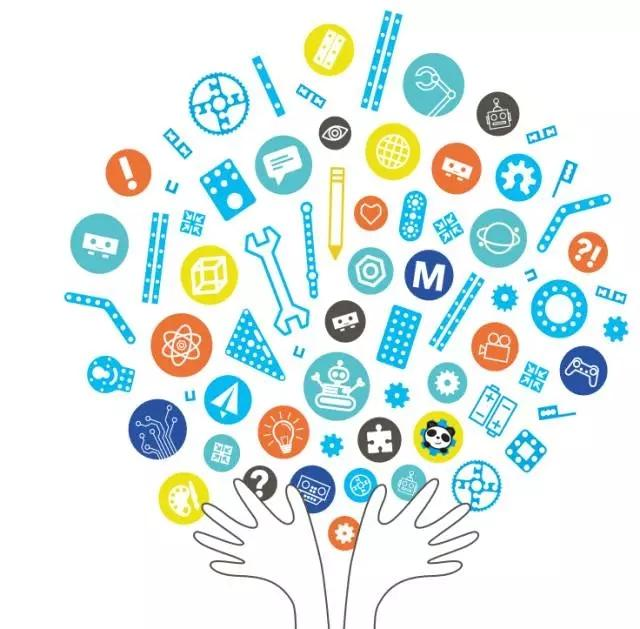
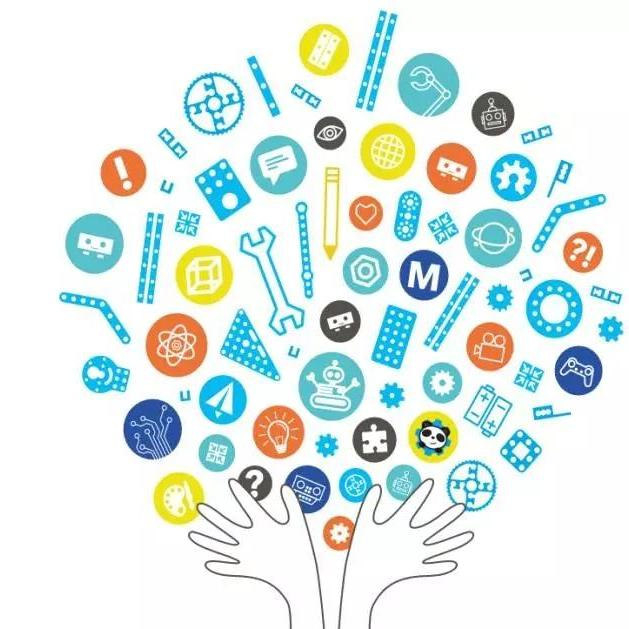
add photos

diff --git a/tool.py b/tool.py
@@ -1,0 +1,181 @@
+#coding: utf-8
+from PIL import Image
+import os
+import sys
+import json
+from datetime import datetime
+from ImageProcess import Graphics
+
+# 定义压缩比，数值越大，压缩越小
+SIZE_normal = 1.0
+SIZE_small = 1.5
+SIZE_more_small = 2.0
+SIZE_more_small_small = 3.0
+
+
+def make_directory(directory):
+    """创建目录"""
+    os.makedirs(directory)
+
+def directory_exists(directory):
+    """判断目录是否存在"""
+    if os.path.exists(directory):
+        return True
+    else:
+        return False
+
+def list_img_file(directory):
+    """列出目录下所有文件，并筛选出图片文件列表返回"""
+    old_list = os.listdir(directory)
+    # print old_list
+    new_list = []
+    for filename in old_list:
+        name, fileformat = filename.split(".")
+        if fileformat.lower() == "jpg" or fileformat.lower() == "png" or fileformat.lower() == "gif":
+            new_list.append(filename)
+    # print new_list
+    return new_list
+
+
+def print_help():
+    print("""
+    This program helps compress many image files
+    you can choose which scale you want to compress your img(jpg/png/etc)
+    1) normal compress(4M to 1M around)
+    2) small compress(4M to 500K around)
+    3) smaller compress(4M to 300K around)
+    """)
+
+def compress(choose, des_dir, src_dir, file_list):
+    """压缩算法，img.thumbnail对图片进行压缩，
+    
+    参数
+    -----------
+    choose: str
+            选择压缩的比例，有4个选项，越大压缩后的图片越小
+    """
+    if choose == '1':
+        scale = SIZE_normal
+    if choose == '2':
+        scale = SIZE_small
+    if choose == '3':
+        scale = SIZE_more_small
+    if choose == '4':
+        scale = SIZE_more_small_small
+    for infile in file_list:
+        img = Image.open(src_dir+infile)
+        # size_of_file = os.path.getsize(infile)
+        w, h = img.size
+        img.thumbnail((int(w/scale), int(h/scale)))
+        img.save(des_dir + infile)
+def compress_photo():
+    '''调用压缩图片的函数
+    '''
+    src_dir, des_dir = "photos/", "min_photos/"
+    
+    if directory_exists(src_dir):
+        if not directory_exists(src_dir):
+            make_directory(src_dir)
+        # business logic
+        file_list_src = list_img_file(src_dir)
+    if directory_exists(des_dir):
+        if not directory_exists(des_dir):
+            make_directory(des_dir)
+        file_list_des = list_img_file(des_dir)
+        # print file_list
+    '''如果已经压缩了，就不再压缩'''
+    for i in range(len(file_list_des)):
+        if file_list_des[i] in file_list_src:
+            file_list_src.remove(file_list_des[i])
+    if len(file_list_src) == 0:
+        print("=====no file need compress=======")
+    compress('4', des_dir, src_dir, file_list_src)
+
+def handle_photo():
+    '''根据图片的文件名处理成需要的json格式的数据
+    
+    -----------
+    最后将data.json文件存到博客的source/photos文件夹下
+    '''
+    src_dir, des_dir = "photos/", "min_photos/"
+    file_list = list_img_file(src_dir)
+    list_info = []
+    file_list.sort(key=lambda x: x.split('_')[0])   # 按照日期排序
+    for i in range(len(file_list)):
+        filename = file_list[i]
+        date_str, info = filename.split("_")
+        info, _ = info.split(".")
+        date = datetime.strptime(date_str, "%Y-%m-%d")
+        year_month = date_str[0:7]            
+        if i == 0:  # 处理第一个文件
+            new_dict = {"date": year_month, "arr":{'year': date.year,
+                                                                   'month': date.month,
+                                                                   'link': [filename],
+                                                                   'text': [info],
+                                                                   'type': ['image']
+                                                                   }
+                                        } 
+            list_info.append(new_dict)
+        elif year_month != list_info[-1]['date']:  # 不是最后的一个日期，就新建一个dict
+            new_dict = {"date": year_month, "arr":{'year': date.year,
+                                                   'month': date.month,
+                                                   'link': [filename],
+                                                   'text': [info],
+                                                   'type': ['image']
+                                                   }
+                        }
+            list_info.append(new_dict)
+        else:  # 同一个日期
+            list_info[-1]['arr']['link'].append(filename)
+            list_info[-1]['arr']['text'].append(info)
+            list_info[-1]['arr']['type'].append('image')
+    list_info.reverse()  # 翻转
+    final_dict = {"list": list_info}
+    with open("D:/program/cadence/blog/source/photos","w") as fp:
+        json.dump(final_dict, fp)
+
+def cut_photo():
+    """裁剪算法
+    
+    ----------
+    调用Graphics类中的裁剪算法，将src_dir目录下的文件进行裁剪（裁剪成正方形）
+    """
+    src_dir = "photos/"
+    if directory_exists(src_dir):
+        if not directory_exists(src_dir):
+            make_directory(src_dir)
+        # business logic
+        file_list = list_img_file(src_dir)
+        # print file_list
+        if file_list:
+            print_help()
+            for infile in file_list:
+                img = Image.open(src_dir+infile)
+                Graphics(infile=src_dir+infile, outfile=src_dir + infile).cut_by_ratio()            
+        else:
+            pass
+    else:
+        print("source directory not exist!")     
+
+
+
+def git_operation():
+    '''
+    git 命令行函数，将仓库提交
+    
+    ----------
+    需要安装git命令行工具，并且添加到环境变量中
+    '''
+    os.system('git add --all')
+    os.system('git commit -m "add photos"')
+    os.system('git push origin master')
+
+if __name__ == "__main__":
+    cut_photo()        # 裁剪图片，裁剪成正方形，去中间部分
+    compress_photo()   # 压缩图片，并保存到mini_photos文件夹下
+    git_operation()    # 提交到github仓库
+    handle_photo()     # 将文件处理成json格式，存到博客仓库中
+    
+    
+    
+    

diff --git a/ImageProcess.py b/ImageProcess.py
@@ -1,0 +1,81 @@
+# coding=utf-8  
+from PIL import Image  
+import shutil  
+import os  
+
+class Graphics:  
+    '''图片处理类
+    
+    参数
+    -------
+    infile: 输入文件路径
+    outfile: 输出文件路径
+    '''
+    def __init__(self, infile, outfile):
+        self.infile = infile
+        self.outfile = outfile
+
+    def fixed_size(self, width, height):  
+        """按照固定尺寸处理图片"""  
+        im = Image.open(self.infile)  
+        out = im.resize((width, height),Image.ANTIALIAS)  
+        out.save(self.outfile)  
+
+
+    def resize_by_width(self, w_divide_h):  
+        """按照宽度进行所需比例缩放"""  
+        im = Image.open(self.infile)  
+        (x, y) = im.size   
+        x_s = x  
+        y_s = x/w_divide_h  
+        out = im.resize((x_s, y_s), Image.ANTIALIAS)   
+        out.save(self.outfile)  
+
+
+    def resize_by_height(self, w_divide_h):  
+        """按照高度进行所需比例缩放"""  
+        im = Image.open(self.infile)  
+        (x, y) = im.size   
+        x_s = y*w_divide_h  
+        y_s = y  
+        out = im.resize((x_s, y_s), Image.ANTIALIAS)   
+        out.save(self.outfile)  
+
+
+    def resize_by_size(self, size):  
+        """按照生成图片文件大小进行处理(单位KB)"""  
+        size *= 1024  
+        im = Image.open(self.infile)  
+        size_tmp = os.path.getsize(self.infile)  
+        q = 100  
+        while size_tmp > size and q > 0:  
+            print (q)  
+            out = im.resize(im.size, Image.ANTIALIAS)  
+            out.save(self.outfile, quality=q)  
+            size_tmp = os.path.getsize(self.outfile)  
+            q -= 5  
+        if q == 100:  
+            shutil.copy(self.infile, self.outfile)  
+
+  
+    def cut_by_ratio(self):  
+        """按照图片长宽进行分割
+        
+        ------------
+        取中间的部分，裁剪成正方形
+        """  
+        im = Image.open(self.infile)  
+        (x, y) = im.size  
+        if x > y:  
+            region = (int(x/2-y/2), 0, int(x/2+y/2), y)  
+            #裁切图片  
+            crop_img = im.crop(region)  
+            #保存裁切后的图片  
+            crop_img.save(self.outfile)             
+        elif x < y:  
+            region = (0, int(y/2-x/2), x, int(y/2+x/2))
+            #裁切图片  
+            crop_img = im.crop(region)  
+            #保存裁切后的图片  
+            crop_img.save(self.outfile)             
+
